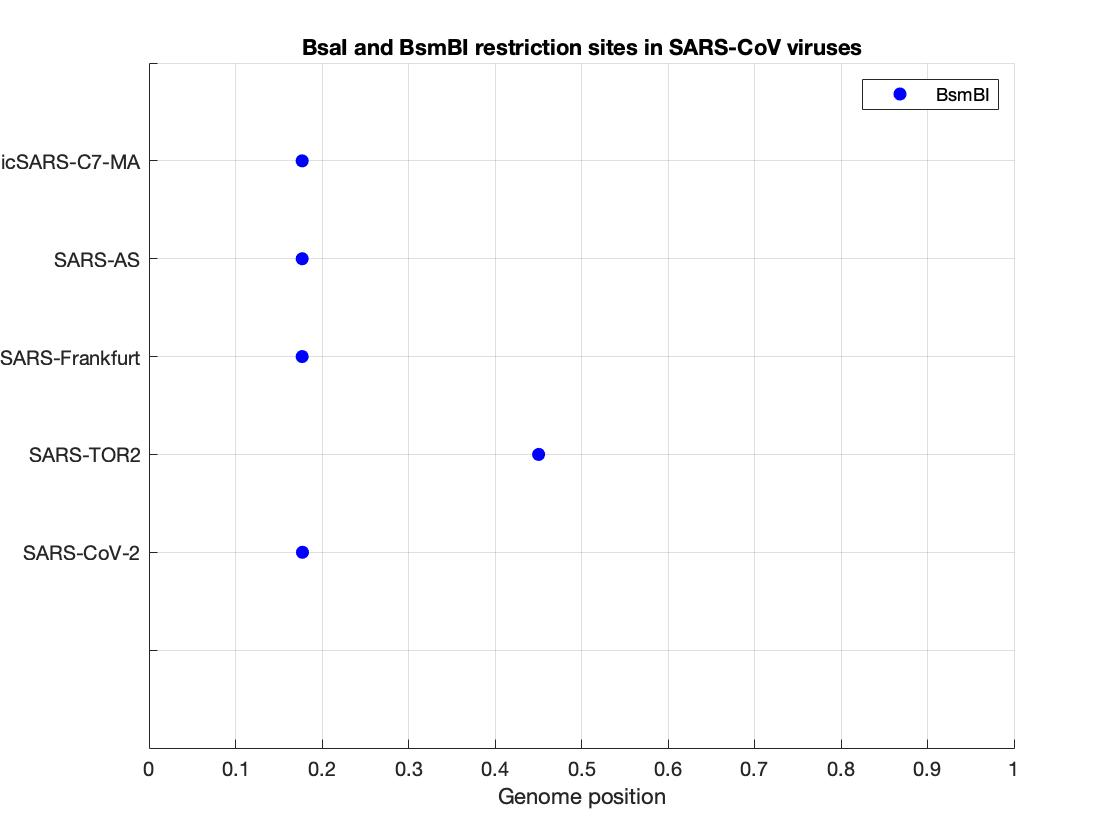
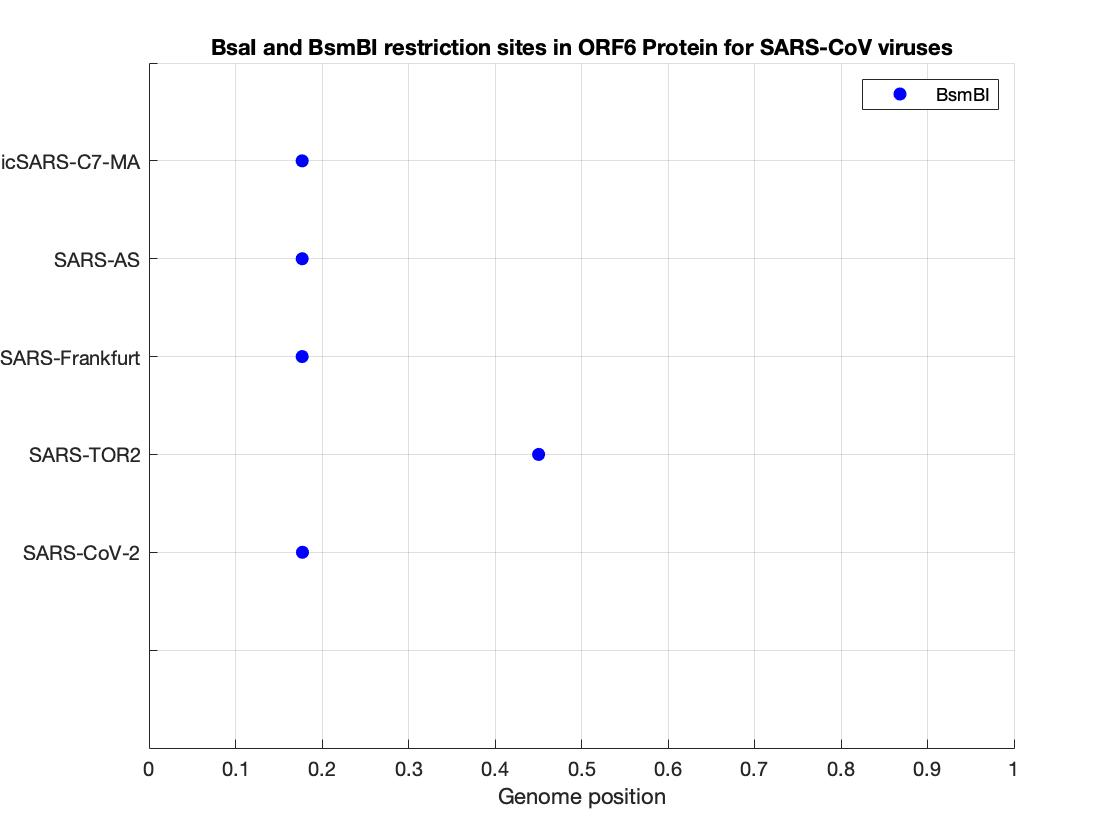
Update figures

Changed region(s): [[0.1875, 0.031, 0.8438, 0.0929]]

diff --git a/BsaIBsmBIrestrictionMaps.m b/BsaIBsmBIrestrictionMaps.m
@@ -43,6 +43,6 @@ ylim([-0.1 0.6])
 grid on;
 yticklabels({' ', ' ', 'SARS-CoV-2', 'SARS-TOR2', 'SARS-Frankfurt', 'SARS-AS', 'icSARS-C7-MA'})
 xlabel('Genome position');
-title('BsaI and BsmBI restriction sites in SARS-CoV viruses');
+title('BsaI and BsmBI restriction sites in ORF6 Protein for SARS-CoV viruses');
 legend('BsmBI', 'BSaI');
 hold off;
